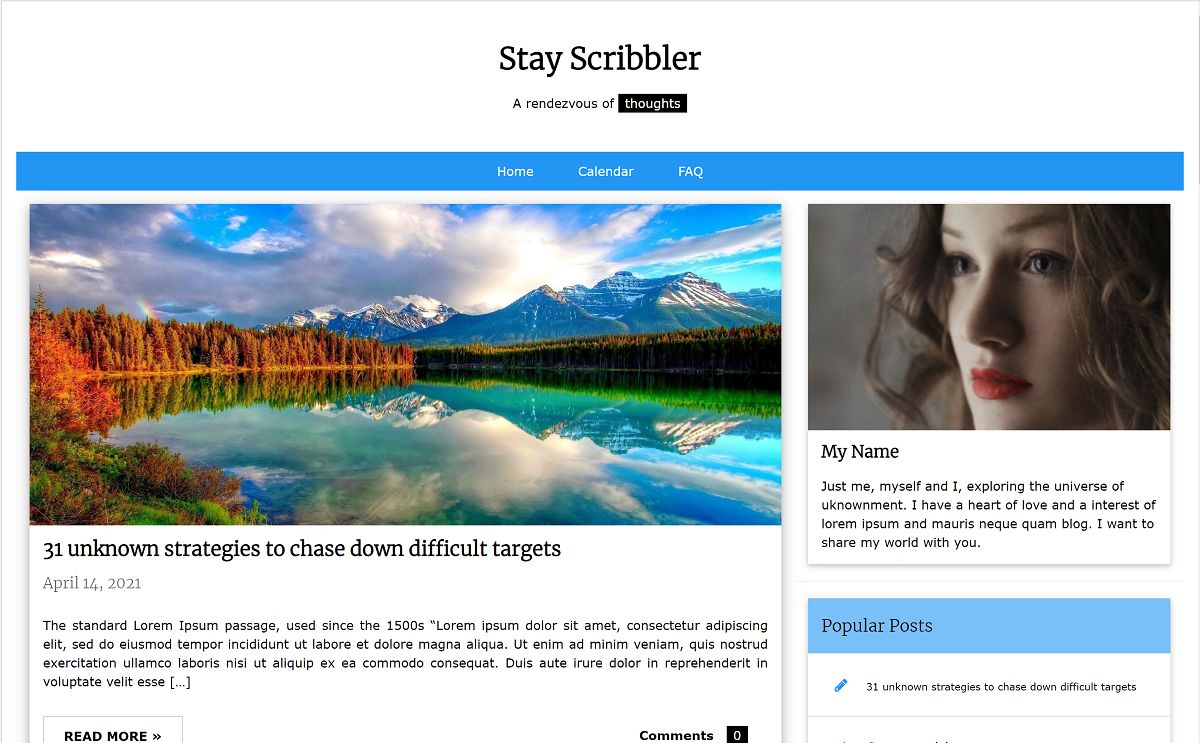
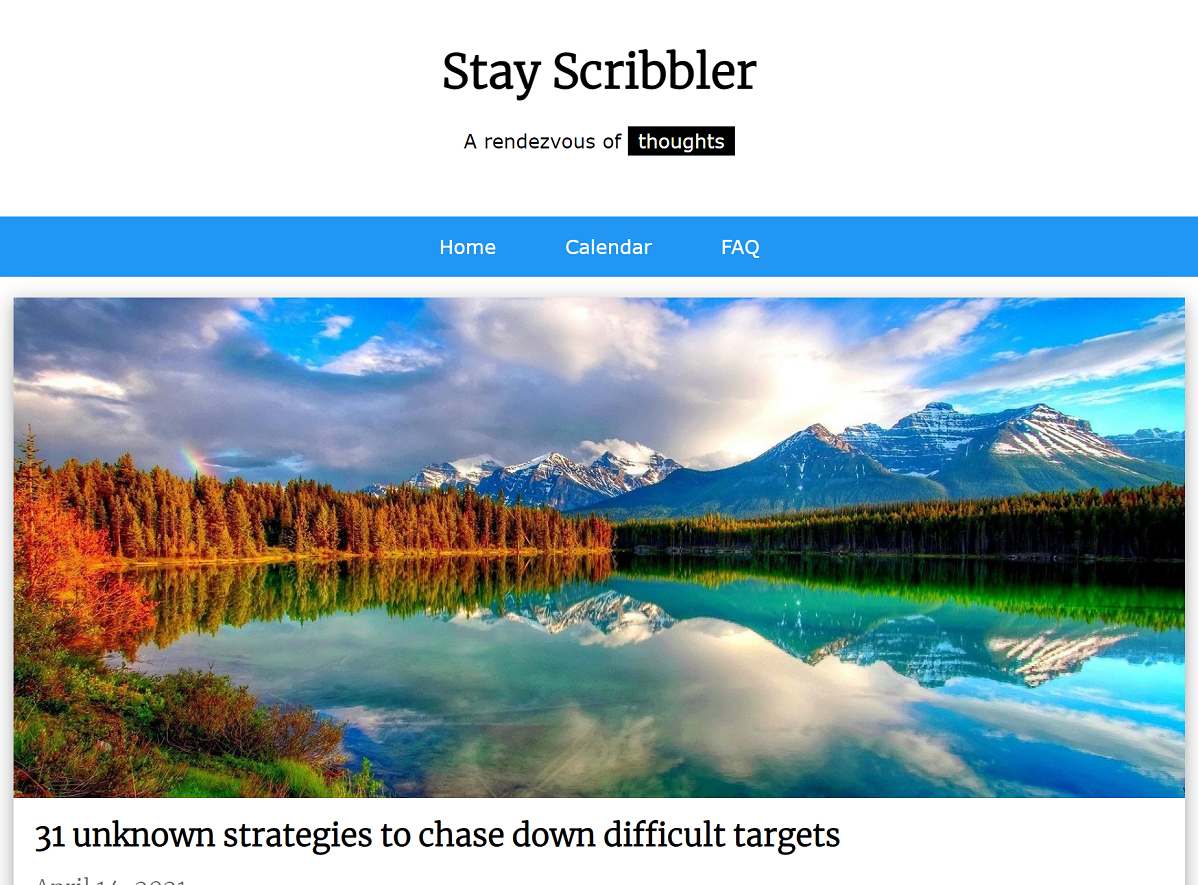
categories widget

diff --git a/sidebar.php b/sidebar.php
@@ -1,5 +1,5 @@
 <div class="w3-card w3-margin w3-margin-top">
-    <img src="https://www.w3schools.com//w3images/avatar_g.jpg" style="width:100%">
+    <img src="<?php bloginfo('template_url'); ?>/res/coming-soon.jpg" style="width:100%">
     <div class="w3-container w3-white">
         <h4><b>My Name</b></h4>
         <p>Just me, myself and I, exploring the universe of uknownment. I have a heart of love and a interest of lorem ipsum and mauris neque quam blog. I want to share my world with you.</p>
@@ -24,6 +24,30 @@
                     <i class="fa fa-pencil w3-text-theme w3-margin-right"></i>
                     <?php $title_len = strlen($post_item['post_title']); ?>
                     <span class="<?php echo ($title_len >=40 ? "w3-small" : ""); ?>"><?php echo $post_item['post_title'] ?></span>
+                </div>
+                </a>
+            </li>
+        <?php endforeach; ?>
+    </ul>
+
+</div><hr>
+
+<!-- Categories -->
+<div class="w3-card w3-margin w3-margin-top">
+    <div class="w3-container w3-padding w3-theme-l2">
+      <h4>Browse Categories</h4>
+    </div>
+    <ul id="browse_categories" class="w3-ul w3-hoverable w3-white">
+        <?php
+        $categories = get_categories( array(
+            'orderby' => 'name',
+            'order'   => 'ASC'
+        ) );
+        foreach( $categories as $category ) : ?>
+            <li class="w3-padding-16">
+                <a href="<?php echo get_category_link( $category->term_id ); ?>" class="w3-button w3-block">
+                <div class="w3-large w3-left">
+                    <?php echo $category->name ?>
                 </div>
                 </a>
             </li>
